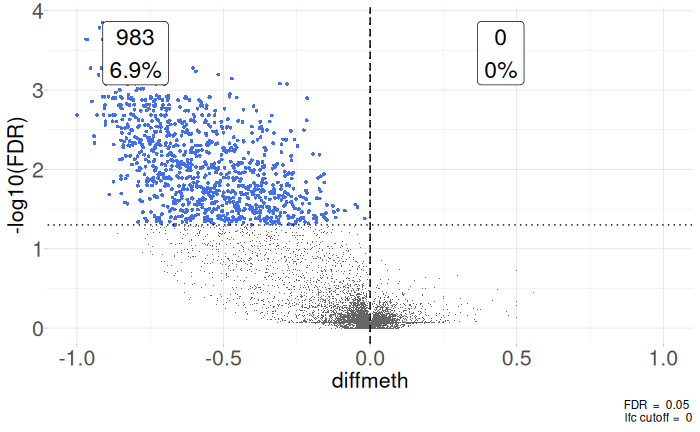
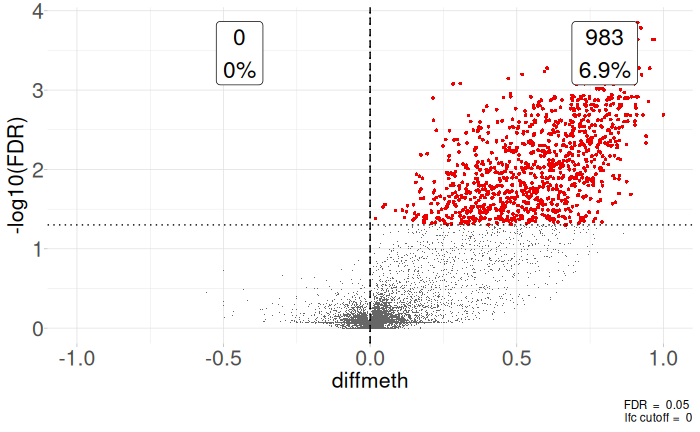
changed direction of volcano

diff --git a/docs/differential-methylation-analysis.html b/docs/differential-methylation-analysis.html
@@ -550,8 +550,8 @@ Up                          983</code></pre>
 <span id="cb34-9"><a href="#cb34-9" aria-hidden="true" tabindex="-1"></a>  <span class="at">levels=</span>designSL</span>
 <span id="cb34-10"><a href="#cb34-10" aria-hidden="true" tabindex="-1"></a>)</span>
 <span id="cb34-11"><a href="#cb34-11" aria-hidden="true" tabindex="-1"></a>contr <span class="ot">&lt;-</span> limma<span class="sc">::</span><span class="fu">contrastAsCoef</span>(designSL, contr)</span>
-<span id="cb34-12"><a href="#cb34-12" aria-hidden="true" tabindex="-1"></a>group1Methylation <span class="ot">&lt;-</span> <span class="fu">rowMeans</span>(Beta[,<span class="fu">which</span>(contr<span class="sc">$</span>design[,<span class="st">"Group60vs40"</span>] <span class="sc">&lt;</span> <span class="dv">0</span>)])</span>
-<span id="cb34-13"><a href="#cb34-13" aria-hidden="true" tabindex="-1"></a>group2Methylation <span class="ot">&lt;-</span> <span class="fu">rowMeans</span>(Beta[,<span class="fu">which</span>(contr<span class="sc">$</span>design[,<span class="st">"Group60vs40"</span>] <span class="sc">&gt;</span> <span class="dv">0</span>)])</span>
+<span id="cb34-12"><a href="#cb34-12" aria-hidden="true" tabindex="-1"></a>group1Methylation <span class="ot">&lt;-</span> <span class="fu">rowMeans</span>(Beta[,<span class="fu">which</span>(contr<span class="sc">$</span>design[,<span class="st">"Group60vs40"</span>] <span class="sc">&gt;</span> <span class="dv">0</span>)])</span>
+<span id="cb34-13"><a href="#cb34-13" aria-hidden="true" tabindex="-1"></a>group2Methylation <span class="ot">&lt;-</span> <span class="fu">rowMeans</span>(Beta[,<span class="fu">which</span>(contr<span class="sc">$</span>design[,<span class="st">"Group60vs40"</span>] <span class="sc">&lt;</span> <span class="dv">0</span>)])</span>
 <span id="cb34-14"><a href="#cb34-14" aria-hidden="true" tabindex="-1"></a>diffMethylation <span class="ot">&lt;-</span> group1Methylation <span class="sc">-</span> group2Methylation</span>
 <span id="cb34-15"><a href="#cb34-15" aria-hidden="true" tabindex="-1"></a></span>
 <span id="cb34-16"><a href="#cb34-16" aria-hidden="true" tabindex="-1"></a>dataframe <span class="ot">&lt;-</span> coriell<span class="sc">::</span><span class="fu">edger_to_df</span>(qlf)</span>
